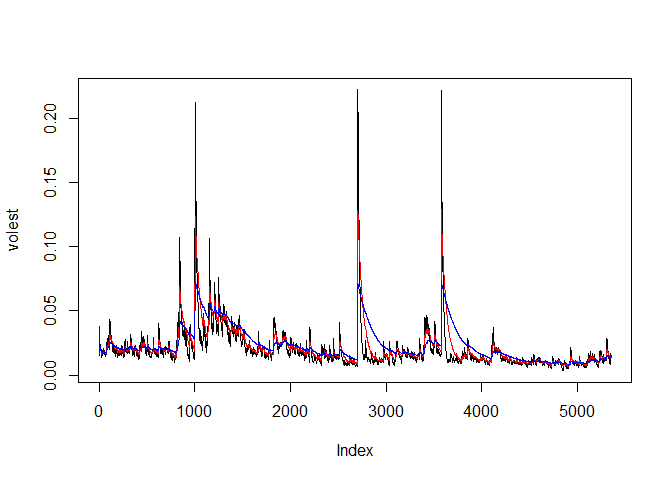
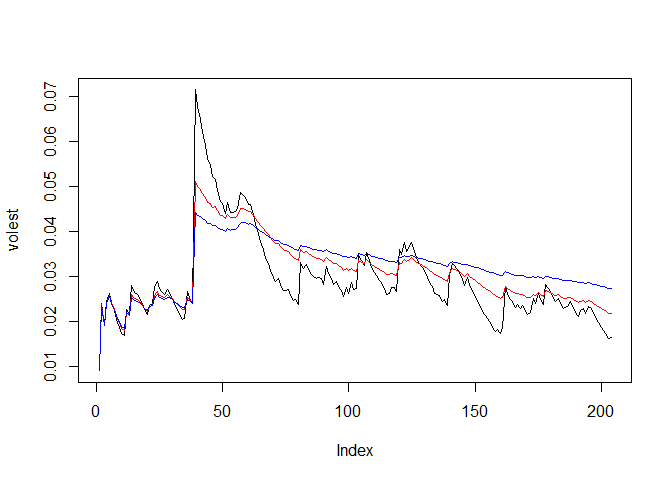
changed to PEN TICKER

diff --git a/MSDS6306_Mod9.5_PlottingVolatility.md b/MSDS6306_Mod9.5_PlottingVolatility.md
@@ -3,28 +3,26 @@ For this analysis, we need to install/load the tseries R Package.
     ##install.packages("tseries")
     library(tseries)
 
-I have chosen to analyze the Company I work for, AmerisourceBergen.
-Ticker Symbol "ABC"
+I have been assigned Penumbra, Inc. Ticker Symbol "PEN"
 
 Step 1: Load the closing quotes
 
-    tickerdata<-get.hist.quote('ABC', quote="Close")
+    tickerdata<-get.hist.quote('PEN', quote="Close")
 
     ## Warning in download.file(url, destfile, method = method, quiet = quiet):
-    ## downloaded length 336342 != reported length 200
+    ## downloaded length 12495 != reported length 200
 
-    ## time series starts 1995-04-04
-    ## time series ends   2016-07-08
+    ## time series starts 2015-09-21
 
     head(tickerdata)
 
-    ##               Close
-    ## 1995-04-04 23.62496
-    ## 1995-04-05 22.75000
-    ## 1995-04-06 23.12496
-    ## 1995-04-07 22.75000
-    ## 1995-04-10 23.00000
-    ## 1995-04-11 22.87504
+    ##            Close
+    ## 2015-09-21 40.00
+    ## 2015-09-22 40.36
+    ## 2015-09-23 41.67
+    ## 2015-09-24 41.68
+    ## 2015-09-25 40.28
+    ## 2015-09-28 39.04
 
 Step 2: Compute the Log Returns
 
@@ -32,19 +30,19 @@ Step 2: Compute the Log Returns
     head(tickerLogReturn)
 
     ##                   Close
-    ## 1995-04-04 -0.037738635
-    ## 1995-04-05  0.016347408
-    ## 1995-04-06 -0.016347408
-    ## 1995-04-07  0.010929071
-    ## 1995-04-10 -0.005447856
-    ## 1995-04-11  0.000000000
+    ## 2015-09-21  0.008959766
+    ## 2015-09-22  0.031942177
+    ## 2015-09-23  0.000240000
+    ## 2015-09-24 -0.034166354
+    ## 2015-09-25 -0.031268256
+    ## 2015-09-28  0.014242281
 
 Step3: Compute Volatility
 
     TickerVolatility<- sd(tickerLogReturn) * sqrt(250) * 100
     TickerVolatility
 
-    ## [1] 42.34852
+    ## [1] 48.51677
 
     Vol <- function(d,logrets) {
       var = 0
@@ -62,17 +60,17 @@ Step3: Compute Volatility
     volest  <- Vol(10,tickerLogReturn)
     head(volest)
 
-    ## [1] 0.03773863 0.02855301 0.02475979 0.02166832 0.01902920 0.01687687
+    ## [1] 0.008959766 0.023979732 0.019048924 0.024429275 0.026264169 0.024204929
 
     volest2 <- Vol(30,tickerLogReturn)
     head(volest2)
 
-    ## [1] 0.03773863 0.02891222 0.02529615 0.02242974 0.02004705 0.01814115
+    ## [1] 0.008959766 0.023627449 0.019127147 0.024010880 0.025734976 0.024064105
 
     volest3 <- Vol(100,tickerLogReturn)
     head(volest3)
 
-    ## [1] 0.03773863 0.02903126 0.02547595 0.02268538 0.02038818 0.01856464
+    ## [1] 0.008959766 0.023508550 0.019146788 0.023870745 0.025554622 0.024002254
 
 Step 4: Plot Volatility
 
